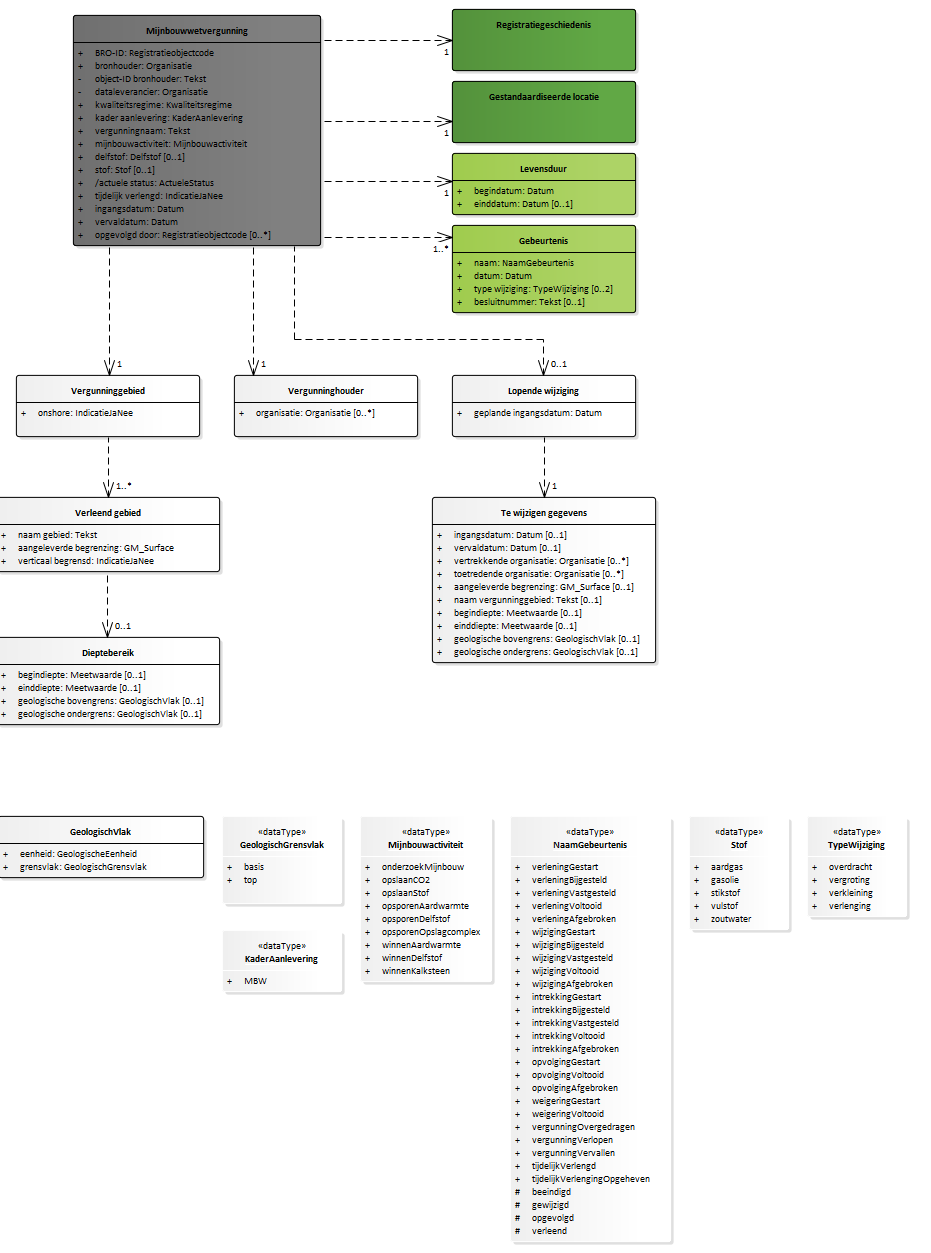
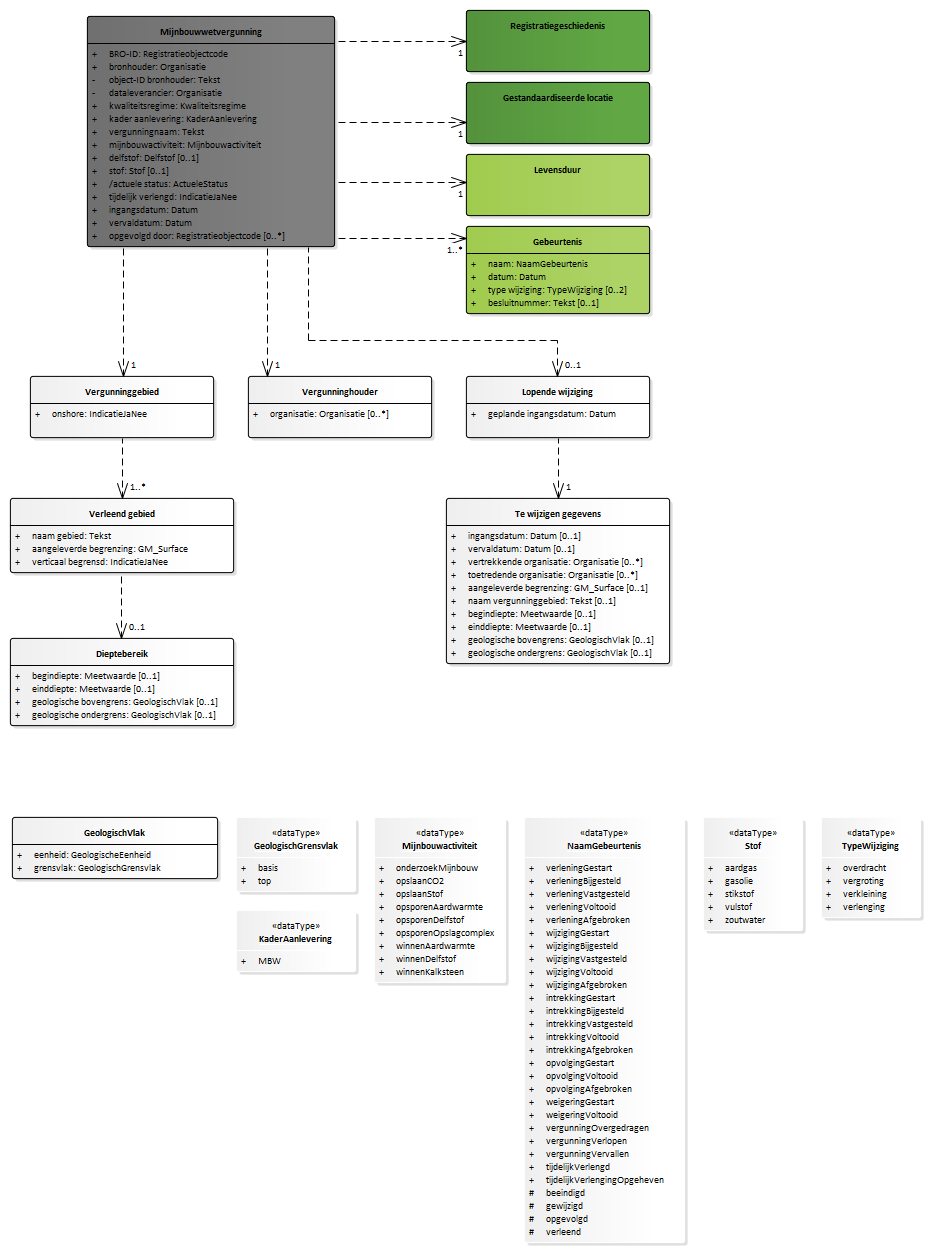
Conceptualmodel-EPLconceptueel-0.1-1-20201106-20210128-112958

diff --git a/data/EPL-cat.msword.html b/data/EPL-cat.msword.html
@@ -15,7 +15,7 @@
    <body>
       <p>Conceptual model/EPL conceptueel/20201106</p>
       <p>Imvertor: 1.63.0</p>
-      <p>Model release: Conceptualmodel-EPLconceptueel-0.1-1-20201106-20210128-093055</p>
+      <p>Model release: Conceptualmodel-EPLconceptueel-0.1-1-20201106-20210128-112958</p>
       <hr>
       <section>
          <h1>Artikel 1 Definitie van registratieobject, entiteiten en attributen</h1>
@@ -49,11 +49,9 @@
                         <td>
                            
                            <p>De populatie mijnbouwwetvergunningen in de registratie ondergrond omvat de vergunningen
-                              die het recht geven op het opsporen van delfstoffen, aardwarmte en CO2-opslagcomplexen,
-                              en op het winnen van delfstoffen en aardwarmte, het opslaan van stoffen en het permanent
-                              opslaan van CO2 in de ondergrond. Ieder object heeft ter identificatie een eigen BRO-ID.<br clear="none">
-                              De populatie omvat alleen de vergunningen die op 1 januari 2003 niet waren beëindigd.<br clear="none">
-                              </p>
+                              die het recht geven op het opsporen van delfstoffen, aardwarmte en CO<sub>2</sub>-opslagcomplexen, en op het winnen van delfstoffen en aardwarmte, het opslaan van
+                              stoffen en het permanent opslaan van CO<sub>2</sub> in de ondergrond. Ieder object heeft ter identificatie een eigen BRO-ID.<br clear="none">
+                              De populatie omvat alleen de vergunningen die op 1 januari 2003 niet waren beëindigd.</p>
                            </td>
                      </tr>
                   </tbody>
@@ -63,7 +61,7 @@
          <section>
             <h2>Het domeinmodel</h2>
             <section id="">
-               <div class="imageinfo overview"><img src="Images/EAID_55EAE6F5_78C8_4cad_8F4B_A13F2B58A2D0.png" usemap="#imagemap-EAID_55EAE6F5_78C8_4cad_8F4B_A13F2B58A2D0" alt="Diagram "><map name="imagemap-EAID_55EAE6F5_78C8_4cad_8F4B_A13F2B58A2D0"><area shape="rect" alt="Gestandaardiseerde locatie" coords="452,81,636,143" href="#graph_EAID_66389B47_072E_4fe7_B85B_46FDC19AEB6F"><area shape="rect" alt="Te wijzigen gegevens" coords="432,497,656,663" href="#graph_EAID_DFE0F1C5_34F4_4fcf_9A60_D73A1351512D"><area shape="rect" alt="Lopende wijziging" coords="452,375,636,437" href="#graph_EAID_C94DA52F_E822_4913_8A77_F9EFEEB1D2E6"><area shape="rect" alt="Vergunninghouder" coords="234,375,418,437" href="#graph_EAID_4F4EC4DC_F06B_4687_B22D_69CBC4D1A797"><area shape="rect" alt="Dieptebereik" coords="-4,637,220,725" href="#graph_EAID_53D77CAF_74C5_46b4_8B27_C92A8E442BC2"><area shape="rect" alt="Verleend gebied" coords="-4,497,220,572" href="#graph_EAID_FE57740F_46E2_4939_95A1_191BFFDB4F51"><area shape="rect" alt="Vergunninggebied" coords="16,375,200,437" href="#graph_EAID_55848D58_82A4_4b0e_AE8B_281669C7CA59"><area shape="rect" alt="Gebeurtenis" coords="452,225,636,313" href="#graph_EAID_D2F0F3FC_E234_4d5a_930A_035FD75F5FEA"><area shape="rect" alt="Levensduur" coords="452,153,636,215" href="#graph_EAID_34A7E7CB_045A_47f6_BE31_13D223DD7398"><area shape="rect" alt="Mijnbouwwetvergunning" coords="73,15,321,246" href="#graph_EAID_79464324_589F_4408_BD2E_501CBB622EC8"><area shape="rect" alt="Registratiegeschiedenis" coords="452,9,636,71" href="#graph_EAID_1D64545B_5D88_47ce_A041_A1E41E7B2CE9"></map><p><b>Mijnbouwwetvergunning</b></p>
+               <div class="imageinfo overview"><img src="Images/EAID_55EAE6F5_78C8_4cad_8F4B_A13F2B58A2D0.png" usemap="#imagemap-EAID_55EAE6F5_78C8_4cad_8F4B_A13F2B58A2D0" alt="Diagram "><map name="imagemap-EAID_55EAE6F5_78C8_4cad_8F4B_A13F2B58A2D0"><area shape="rect" alt="Gestandaardiseerde locatie" coords="466,82,650,144" href="#graph_EAID_66389B47_072E_4fe7_B85B_46FDC19AEB6F"><area shape="rect" alt="Te wijzigen gegevens" coords="446,498,670,664" href="#graph_EAID_DFE0F1C5_34F4_4fcf_9A60_D73A1351512D"><area shape="rect" alt="Lopende wijziging" coords="466,376,650,438" href="#graph_EAID_C94DA52F_E822_4913_8A77_F9EFEEB1D2E6"><area shape="rect" alt="Vergunninghouder" coords="248,376,432,438" href="#graph_EAID_4F4EC4DC_F06B_4687_B22D_69CBC4D1A797"><area shape="rect" alt="Dieptebereik" coords="10,638,234,726" href="#graph_EAID_53D77CAF_74C5_46b4_8B27_C92A8E442BC2"><area shape="rect" alt="Verleend gebied" coords="10,498,234,573" href="#graph_EAID_FE57740F_46E2_4939_95A1_191BFFDB4F51"><area shape="rect" alt="Vergunninggebied" coords="30,376,214,438" href="#graph_EAID_55848D58_82A4_4b0e_AE8B_281669C7CA59"><area shape="rect" alt="Gebeurtenis" coords="466,226,650,314" href="#graph_EAID_D2F0F3FC_E234_4d5a_930A_035FD75F5FEA"><area shape="rect" alt="Levensduur" coords="466,154,650,216" href="#graph_EAID_34A7E7CB_045A_47f6_BE31_13D223DD7398"><area shape="rect" alt="Mijnbouwwetvergunning" coords="87,16,335,247" href="#graph_EAID_79464324_589F_4408_BD2E_501CBB622EC8"><area shape="rect" alt="Registratiegeschiedenis" coords="466,10,650,72" href="#graph_EAID_1D64545B_5D88_47ce_A041_A1E41E7B2CE9"></map><p><b>Mijnbouwwetvergunning</b></p>
                </div>
             </section>
          </section>
@@ -536,8 +534,7 @@
                                     Voor het opsporen van aardwarmte wordt een startvergunning verleend waarin ook een
                                     korte periode van winnen is toegestaan, voor het definitief winnen van aardwarmte
                                     wordt een vervolgvergunning verleend.<br clear="none">
-                                    Het permanent opslaan van CO2 en het opsporen van CO2-opslagcomplexen wordt in de
-                                    Mijnbouwwet gezien als aparte activiteit.<br clear="none">
+                                    Het permanent opslaan van CO<sub>2</sub> en het opsporen van CO<sub>2</sub>-opslagcomplexen wordt in de Mijnbouwwet gezien als aparte activiteit.<br clear="none">
                                     Het winnen van kalksteen wordt ook als aparte activiteit gezien in het Mijnbouwbesluit
                                     en wordt sinds 1 januari 2011 verleend door gedeputeerde staten.<br clear="none">
                                     Het opsporen en winnen van delfstoffen ten behoeve van wetenschappelijk onderzoek
@@ -1008,7 +1005,7 @@
                                  
                                  <ul>
                                     
-                                    <li>In vervolg op opsporing van een CO2-opslagcomplex, is dat opslag van CO2.</li>
+                                    <li>In vervolg op opsporing van een CO<sub>2</sub>-opslagcomplex, is dat opslag van CO<sub>2</sub>.</li>
                                     
                                     <li>In vervolg op winning van koolwaterstoffen is dat opslag.</li>
                                     
@@ -1020,7 +1017,7 @@
                            </tr>
                         </tbody>
                      </table>
-                     </section><a class="anchor" id="detail_d36366e3319"></a><section id="detail_d36366e3319">
+                     </section><a class="anchor" id="detail_d36366e3331"></a><section id="detail_d36366e3331">
                      <h4>  registratiegeschiedenis</h4>
                      <table style="width: 100%;">
                         <colgroup style="width: 30%;"></colgroup>
@@ -1053,7 +1050,7 @@
                            </tr>
                         </tbody>
                      </table>
-                  </section><a class="anchor" id="detail_d36366e3486"></a><section id="detail_d36366e3486">
+                  </section><a class="anchor" id="detail_d36366e3498"></a><section id="detail_d36366e3498">
                      <h4>  gestandaardiseerde locatie</h4>
                      <table style="width: 100%;">
                         <colgroup style="width: 30%;"></colgroup>
@@ -1094,7 +1091,7 @@
                            </tr>
                         </tbody>
                      </table>
-                  </section><a class="anchor" id="detail_d36366e3700"></a><section id="detail_d36366e3700">
+                  </section><a class="anchor" id="detail_d36366e3712"></a><section id="detail_d36366e3712">
                      <h4>  levensduur</h4>
                      <table style="width: 100%;">
                         <colgroup style="width: 30%;"></colgroup>
@@ -1135,7 +1132,7 @@
                            </tr>
                         </tbody>
                      </table>
-                  </section><a class="anchor" id="detail_d36366e3908"></a><section id="detail_d36366e3908">
+                  </section><a class="anchor" id="detail_d36366e3920"></a><section id="detail_d36366e3920">
                      <h4>  vergunninggeschiedenis</h4>
                      <table style="width: 100%;">
                         <colgroup style="width: 30%;"></colgroup>
@@ -1180,7 +1177,7 @@
                            </tr>
                         </tbody>
                      </table>
-                  </section><a class="anchor" id="detail_d36366e4116"></a><section id="detail_d36366e4116">
+                  </section><a class="anchor" id="detail_d36366e4128"></a><section id="detail_d36366e4128">
                      <h4>  vergunninggebied</h4>
                      <table style="width: 100%;">
                         <colgroup style="width: 30%;"></colgroup>
@@ -1213,7 +1210,7 @@
                            </tr>
                         </tbody>
                      </table>
-                  </section><a class="anchor" id="detail_d36366e4283"></a><section id="detail_d36366e4283">
+                  </section><a class="anchor" id="detail_d36366e4295"></a><section id="detail_d36366e4295">
                      <h4>  vergunninghouder</h4>
                      <table style="width: 100%;">
                         <colgroup style="width: 30%;"></colgroup>
@@ -1254,7 +1251,7 @@
                            </tr>
                         </tbody>
                      </table>
-                  </section><a class="anchor" id="detail_d36366e4497"></a><section id="detail_d36366e4497">
+                  </section><a class="anchor" id="detail_d36366e4509"></a><section id="detail_d36366e4509">
                      <h4>  lopende wijziging</h4>
                      <table style="width: 100%;">
                         <colgroup style="width: 30%;"></colgroup>
@@ -2457,7 +2454,7 @@
                            </tr>
                         </tbody>
                      </table>
-                     </section><a class="anchor" id="detail_d36366e8674"></a><section id="detail_d36366e8674">
+                     </section><a class="anchor" id="detail_d36366e8686"></a><section id="detail_d36366e8686">
                      <h4>  verleend gebied</h4>
                      <table style="width: 100%;">
                         <colgroup style="width: 30%;"></colgroup>
@@ -2698,7 +2695,7 @@
                            </tr>
                         </tbody>
                      </table>
-                     </section><a class="anchor" id="detail_d36366e9517"></a><section id="detail_d36366e9517">
+                     </section><a class="anchor" id="detail_d36366e9529"></a><section id="detail_d36366e9529">
                      <h4>  dieptebereik</h4>
                      <table style="width: 100%;">
                         <colgroup style="width: 30%;"></colgroup>
@@ -2894,7 +2891,7 @@
                            </tr>
                         </tbody>
                      </table>
-                     </section><a class="anchor" id="detail_d36366e10269"></a><section id="detail_d36366e10269">
+                     </section><a class="anchor" id="detail_d36366e10281"></a><section id="detail_d36366e10281">
                      <h4>  geologische bovengrens</h4>
                      <table style="width: 100%;">
                         <colgroup style="width: 30%;"></colgroup>
@@ -2940,7 +2937,7 @@
                            </tr>
                         </tbody>
                      </table>
-                  </section><a class="anchor" id="detail_d36366e10485"></a><section id="detail_d36366e10485">
+                  </section><a class="anchor" id="detail_d36366e10497"></a><section id="detail_d36366e10497">
                      <h4>  geologische ondergrens</h4>
                      <table style="width: 100%;">
                         <colgroup style="width: 30%;"></colgroup>
@@ -3328,7 +3325,7 @@
                            </tr>
                         </tbody>
                      </table>
-                     </section><a class="anchor" id="detail_d36366e11835"></a><section id="detail_d36366e11835">
+                     </section><a class="anchor" id="detail_d36366e11847"></a><section id="detail_d36366e11847">
                      <h4>  te wijzigen gegevens</h4>
                      <table style="width: 100%;">
                         <colgroup style="width: 30%;"></colgroup>
@@ -3753,7 +3750,7 @@
                            </tr>
                         </tbody>
                      </table>
-                     </section><a class="anchor" id="detail_d36366e13341"></a><section id="detail_d36366e13341">
+                     </section><a class="anchor" id="detail_d36366e13353"></a><section id="detail_d36366e13353">
                      <h4>  geologische bovengrens</h4>
                      <table style="width: 100%;">
                         <colgroup style="width: 30%;"></colgroup>
@@ -3786,7 +3783,7 @@
                            </tr>
                         </tbody>
                      </table>
-                  </section><a class="anchor" id="detail_d36366e13508"></a><section id="detail_d36366e13508">
+                  </section><a class="anchor" id="detail_d36366e13520"></a><section id="detail_d36366e13520">
                      <h4>  geologische ondergrens</h4>
                      <table style="width: 100%;">
                         <colgroup style="width: 30%;"></colgroup>

diff --git a/data/EPL-cat.respec.html b/data/EPL-cat.respec.html
@@ -29,11 +29,9 @@
                <td>
                   
                   <p>De populatie mijnbouwwetvergunningen in de registratie ondergrond omvat de vergunningen
-                     die het recht geven op het opsporen van delfstoffen, aardwarmte en CO2-opslagcomplexen,
-                     en op het winnen van delfstoffen en aardwarmte, het opslaan van stoffen en het permanent
-                     opslaan van CO2 in de ondergrond. Ieder object heeft ter identificatie een eigen BRO-ID.<br clear="none">
-                     De populatie omvat alleen de vergunningen die op 1 januari 2003 niet waren beëindigd.<br clear="none">
-                     </p>
+                     die het recht geven op het opsporen van delfstoffen, aardwarmte en CO<sub>2</sub>-opslagcomplexen, en op het winnen van delfstoffen en aardwarmte, het opslaan van
+                     stoffen en het permanent opslaan van CO<sub>2</sub> in de ondergrond. Ieder object heeft ter identificatie een eigen BRO-ID.<br clear="none">
+                     De populatie omvat alleen de vergunningen die op 1 januari 2003 niet waren beëindigd.</p>
                   </td>
             </tr>
          </tbody>
@@ -41,7 +39,7 @@
       </section>
    <section id="">
       <h2>Het domeinmodel   </h2>
-      <div class="imageinfo overview"><img src="data/Images/EAID_55EAE6F5_78C8_4cad_8F4B_A13F2B58A2D0.png" usemap="#imagemap-EAID_55EAE6F5_78C8_4cad_8F4B_A13F2B58A2D0" alt="Diagram "><map name="imagemap-EAID_55EAE6F5_78C8_4cad_8F4B_A13F2B58A2D0"><area shape="rect" alt="Gestandaardiseerde locatie" coords="452,81,636,143" href="#graph_EAID_66389B47_072E_4fe7_B85B_46FDC19AEB6F"><area shape="rect" alt="Te wijzigen gegevens" coords="432,497,656,663" href="#graph_EAID_DFE0F1C5_34F4_4fcf_9A60_D73A1351512D"><area shape="rect" alt="Lopende wijziging" coords="452,375,636,437" href="#graph_EAID_C94DA52F_E822_4913_8A77_F9EFEEB1D2E6"><area shape="rect" alt="Vergunninghouder" coords="234,375,418,437" href="#graph_EAID_4F4EC4DC_F06B_4687_B22D_69CBC4D1A797"><area shape="rect" alt="Dieptebereik" coords="-4,637,220,725" href="#graph_EAID_53D77CAF_74C5_46b4_8B27_C92A8E442BC2"><area shape="rect" alt="Verleend gebied" coords="-4,497,220,572" href="#graph_EAID_FE57740F_46E2_4939_95A1_191BFFDB4F51"><area shape="rect" alt="Vergunninggebied" coords="16,375,200,437" href="#graph_EAID_55848D58_82A4_4b0e_AE8B_281669C7CA59"><area shape="rect" alt="Gebeurtenis" coords="452,225,636,313" href="#graph_EAID_D2F0F3FC_E234_4d5a_930A_035FD75F5FEA"><area shape="rect" alt="Levensduur" coords="452,153,636,215" href="#graph_EAID_34A7E7CB_045A_47f6_BE31_13D223DD7398"><area shape="rect" alt="Mijnbouwwetvergunning" coords="73,15,321,246" href="#graph_EAID_79464324_589F_4408_BD2E_501CBB622EC8"><area shape="rect" alt="Registratiegeschiedenis" coords="452,9,636,71" href="#graph_EAID_1D64545B_5D88_47ce_A041_A1E41E7B2CE9"></map><p><b>Mijnbouwwetvergunning</b></p>
+      <div class="imageinfo overview"><img src="data/Images/EAID_55EAE6F5_78C8_4cad_8F4B_A13F2B58A2D0.png" usemap="#imagemap-EAID_55EAE6F5_78C8_4cad_8F4B_A13F2B58A2D0" alt="Diagram "><map name="imagemap-EAID_55EAE6F5_78C8_4cad_8F4B_A13F2B58A2D0"><area shape="rect" alt="Gestandaardiseerde locatie" coords="466,82,650,144" href="#graph_EAID_66389B47_072E_4fe7_B85B_46FDC19AEB6F"><area shape="rect" alt="Te wijzigen gegevens" coords="446,498,670,664" href="#graph_EAID_DFE0F1C5_34F4_4fcf_9A60_D73A1351512D"><area shape="rect" alt="Lopende wijziging" coords="466,376,650,438" href="#graph_EAID_C94DA52F_E822_4913_8A77_F9EFEEB1D2E6"><area shape="rect" alt="Vergunninghouder" coords="248,376,432,438" href="#graph_EAID_4F4EC4DC_F06B_4687_B22D_69CBC4D1A797"><area shape="rect" alt="Dieptebereik" coords="10,638,234,726" href="#graph_EAID_53D77CAF_74C5_46b4_8B27_C92A8E442BC2"><area shape="rect" alt="Verleend gebied" coords="10,498,234,573" href="#graph_EAID_FE57740F_46E2_4939_95A1_191BFFDB4F51"><area shape="rect" alt="Vergunninggebied" coords="30,376,214,438" href="#graph_EAID_55848D58_82A4_4b0e_AE8B_281669C7CA59"><area shape="rect" alt="Gebeurtenis" coords="466,226,650,314" href="#graph_EAID_D2F0F3FC_E234_4d5a_930A_035FD75F5FEA"><area shape="rect" alt="Levensduur" coords="466,154,650,216" href="#graph_EAID_34A7E7CB_045A_47f6_BE31_13D223DD7398"><area shape="rect" alt="Mijnbouwwetvergunning" coords="87,16,335,247" href="#graph_EAID_79464324_589F_4408_BD2E_501CBB622EC8"><area shape="rect" alt="Registratiegeschiedenis" coords="466,10,650,72" href="#graph_EAID_1D64545B_5D88_47ce_A041_A1E41E7B2CE9"></map><p><b>Mijnbouwwetvergunning</b></p>
       </div>
    </section>
    <section id="">
@@ -512,8 +510,7 @@
                            Voor het opsporen van aardwarmte wordt een startvergunning verleend waarin ook een
                            korte periode van winnen is toegestaan, voor het definitief winnen van aardwarmte
                            wordt een vervolgvergunning verleend.<br clear="none">
-                           Het permanent opslaan van CO2 en het opsporen van CO2-opslagcomplexen wordt in de
-                           Mijnbouwwet gezien als aparte activiteit.<br clear="none">
+                           Het permanent opslaan van CO<sub>2</sub> en het opsporen van CO<sub>2</sub>-opslagcomplexen wordt in de Mijnbouwwet gezien als aparte activiteit.<br clear="none">
                            Het winnen van kalksteen wordt ook als aparte activiteit gezien in het Mijnbouwbesluit
                            en wordt sinds 1 januari 2011 verleend door gedeputeerde staten.<br clear="none">
                            Het opsporen en winnen van delfstoffen ten behoeve van wetenschappelijk onderzoek
@@ -984,7 +981,7 @@
                         
                         <ul>
                            
-                           <li>In vervolg op opsporing van een CO2-opslagcomplex, is dat opslag van CO2.</li>
+                           <li>In vervolg op opsporing van een CO<sub>2</sub>-opslagcomplex, is dat opslag van CO<sub>2</sub>.</li>
                            
                            <li>In vervolg op winning van koolwaterstoffen is dat opslag.</li>
                            
@@ -996,7 +993,7 @@
                   </tr>
                </tbody>
             </table>
-            </section><a class="anchor" id="detail_d36366e3319"></a><section id="detail_d36366e3319">
+            </section><a class="anchor" id="detail_d36366e3331"></a><section id="detail_d36366e3331">
             <h4>  registratiegeschiedenis</h4>
             <table style="width: 100%;">
                <colgroup style="width: 30%;"></colgroup>
@@ -1029,7 +1026,7 @@
                   </tr>
                </tbody>
             </table>
-         </section><a class="anchor" id="detail_d36366e3486"></a><section id="detail_d36366e3486">
+         </section><a class="anchor" id="detail_d36366e3498"></a><section id="detail_d36366e3498">
             <h4>  gestandaardiseerde locatie</h4>
             <table style="width: 100%;">
                <colgroup style="width: 30%;"></colgroup>
@@ -1070,7 +1067,7 @@
                   </tr>
                </tbody>
             </table>
-         </section><a class="anchor" id="detail_d36366e3700"></a><section id="detail_d36366e3700">
+         </section><a class="anchor" id="detail_d36366e3712"></a><section id="detail_d36366e3712">
             <h4>  levensduur</h4>
             <table style="width: 100%;">
                <colgroup style="width: 30%;"></colgroup>
@@ -1111,7 +1108,7 @@
                   </tr>
                </tbody>
             </table>
-         </section><a class="anchor" id="detail_d36366e3908"></a><section id="detail_d36366e3908">
+         </section><a class="anchor" id="detail_d36366e3920"></a><section id="detail_d36366e3920">
             <h4>  vergunninggeschiedenis</h4>
             <table style="width: 100%;">
                <colgroup style="width: 30%;"></colgroup>
@@ -1156,7 +1153,7 @@
                   </tr>
                </tbody>
             </table>
-         </section><a class="anchor" id="detail_d36366e4116"></a><section id="detail_d36366e4116">
+         </section><a class="anchor" id="detail_d36366e4128"></a><section id="detail_d36366e4128">
             <h4>  vergunninggebied</h4>
             <table style="width: 100%;">
                <colgroup style="width: 30%;"></colgroup>
@@ -1189,7 +1186,7 @@
                   </tr>
                </tbody>
             </table>
-         </section><a class="anchor" id="detail_d36366e4283"></a><section id="detail_d36366e4283">
+         </section><a class="anchor" id="detail_d36366e4295"></a><section id="detail_d36366e4295">
             <h4>  vergunninghouder</h4>
             <table style="width: 100%;">
                <colgroup style="width: 30%;"></colgroup>
@@ -1230,7 +1227,7 @@
                   </tr>
                </tbody>
             </table>
-         </section><a class="anchor" id="detail_d36366e4497"></a><section id="detail_d36366e4497">
+         </section><a class="anchor" id="detail_d36366e4509"></a><section id="detail_d36366e4509">
             <h4>  lopende wijziging</h4>
             <table style="width: 100%;">
                <colgroup style="width: 30%;"></colgroup>
@@ -2433,7 +2430,7 @@
                   </tr>
                </tbody>
             </table>
-            </section><a class="anchor" id="detail_d36366e8674"></a><section id="detail_d36366e8674">
+            </section><a class="anchor" id="detail_d36366e8686"></a><section id="detail_d36366e8686">
             <h4>  verleend gebied</h4>
             <table style="width: 100%;">
                <colgroup style="width: 30%;"></colgroup>
@@ -2674,7 +2671,7 @@
                   </tr>
                </tbody>
             </table>
-            </section><a class="anchor" id="detail_d36366e9517"></a><section id="detail_d36366e9517">
+            </section><a class="anchor" id="detail_d36366e9529"></a><section id="detail_d36366e9529">
             <h4>  dieptebereik</h4>
             <table style="width: 100%;">
                <colgroup style="width: 30%;"></colgroup>
@@ -2870,7 +2867,7 @@
                   </tr>
                </tbody>
             </table>
-            </section><a class="anchor" id="detail_d36366e10269"></a><section id="detail_d36366e10269">
+            </section><a class="anchor" id="detail_d36366e10281"></a><section id="detail_d36366e10281">
             <h4>  geologische bovengrens</h4>
             <table style="width: 100%;">
                <colgroup style="width: 30%;"></colgroup>
@@ -2916,7 +2913,7 @@
                   </tr>
                </tbody>
             </table>
-         </section><a class="anchor" id="detail_d36366e10485"></a><section id="detail_d36366e10485">
+         </section><a class="anchor" id="detail_d36366e10497"></a><section id="detail_d36366e10497">
             <h4>  geologische ondergrens</h4>
             <table style="width: 100%;">
                <colgroup style="width: 30%;"></colgroup>
@@ -3304,7 +3301,7 @@
                   </tr>
                </tbody>
             </table>
-            </section><a class="anchor" id="detail_d36366e11835"></a><section id="detail_d36366e11835">
+            </section><a class="anchor" id="detail_d36366e11847"></a><section id="detail_d36366e11847">
             <h4>  te wijzigen gegevens</h4>
             <table style="width: 100%;">
                <colgroup style="width: 30%;"></colgroup>
@@ -3729,7 +3726,7 @@
                   </tr>
                </tbody>
             </table>
-            </section><a class="anchor" id="detail_d36366e13341"></a><section id="detail_d36366e13341">
+            </section><a class="anchor" id="detail_d36366e13353"></a><section id="detail_d36366e13353">
             <h4>  geologische bovengrens</h4>
             <table style="width: 100%;">
                <colgroup style="width: 30%;"></colgroup>
@@ -3762,7 +3759,7 @@
                   </tr>
                </tbody>
             </table>
-         </section><a class="anchor" id="detail_d36366e13508"></a><section id="detail_d36366e13508">
+         </section><a class="anchor" id="detail_d36366e13520"></a><section id="detail_d36366e13520">
             <h4>  geologische ondergrens</h4>
             <table style="width: 100%;">
                <colgroup style="width: 30%;"></colgroup>
